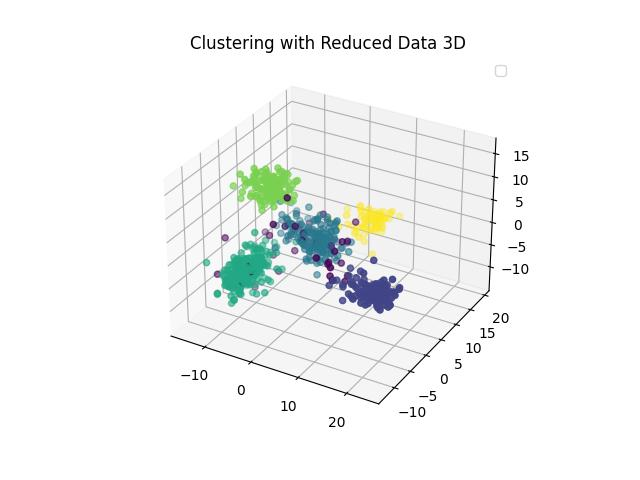
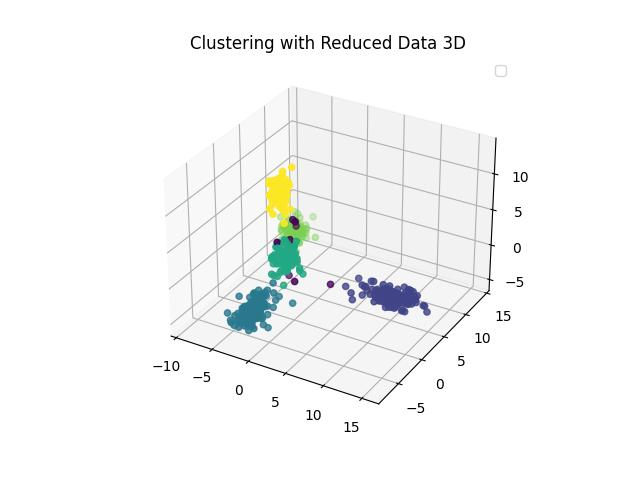
Clustering for reducred data set

diff --git a/src/numeric.py b/src/numeric.py
@@ -132,20 +132,20 @@ def calculate_kn_distance(X,k):
 
 def cluster_data_search(x_train, x_test):
     complete_data = np.concatenate((x_train, x_test))
-    norm = (complete_data - np.min(complete_data))/np.ptp(complete_data)
+    #norm = (complete_data - np.min(complete_data))/np.ptp(complete_data)
 
-    print(np.max(norm), np.min(norm))
+    #print(np.max(norm), np.min(norm))
     # eps_dist = calculate_kn_distance(norm,20)
     # plt.hist(eps_dist,bins=30)
     # plt.ylabel('n');
     # plt.xlabel('Epsilon distance');
     # plt.show()
     # exit()
-    eps_vals = np.arange(0.001, 0.03, 0.001)
+    eps_vals = np.arange(1, 10, 0.5)
     min_vals = range(10, 50)
     for eps_val in eps_vals:
         for min_sample in min_vals:
-            clustering = DBSCAN(eps = eps_val, min_samples = min_sample).fit(norm)
+            clustering = DBSCAN(eps = eps_val, min_samples = min_sample).fit(complete_data)
             labels = clustering.labels_
             clusters =len(set(labels))-(1 if -1 in labels else 0)
             print(clusters,eps_val,min_sample)
@@ -234,9 +234,9 @@ def main():
     #------------Clustering------------#
     print('\nclustering data...')
     # cluster_data_search(original_train, original_test)
-    cluster_data_search(reduced_train, reduced_test)
+    # cluster_data_search(reduced_train, reduced_test)
     # original_labels, original_clusters = cluster_with_params(original_train, original_test, 17.47, 8)
-    reduced_labels, reduced_clusters = cluster_with_params(reduced_train, reduced_test, 5.63, 7)
+    reduced_labels, reduced_clusters = cluster_with_params(reduced_train, reduced_test, 2.5, 15)
 
     # print(f'Estimated no. of clusters for original dataset: {original_clusters}')
     print(f'Estimated no. of clusters for reduced dataset: {reduced_clusters}')
